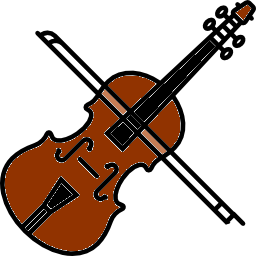
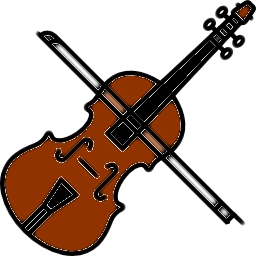
header placeholder

diff --git a/style.css b/style.css
@@ -5,5 +5,5 @@
 
 #header {
   margin-bottom: 25px;
-  box-shadow: 5px 10px hsla(0, 75%, 70%, 0.3);
+  /*opacity: 0.2;*/
 }

diff --git a/header.php b/header.php
@@ -18,17 +18,17 @@
 
     <!--<body class = "bg-secondary"> -->
     <div class="container container-fluid" >
-        <div class="card text-center bg-light" id="header">
+        <div class="card text-center bg-transparent" id="header" style = "margin-bottom:.5rem;">
         
-            <div class="card-body bg-secondary">
-            <img src = "violin_brown.png" >
-                <h4 class="card-header rounded-top bg-light" style="margin-top:.25rem;">The Violin Concerto Through the Ages!</h4>
-                <p class="card-text text-white bg-info rounded-bottom">Great violinists (and one violist) from the 1940's to the present, perform masterworks of the
+            <div class="card-body">
+            <!-- <img src = "violin_brown_shadow.png" > -->
+                <h3 class="card-header rounded-top bg-transparent text-light" style="margin-top:.25rem;">The Violin Concerto Through the Ages!</h3>
+                <p class="card-text text-white bg-transparent rounded-bottom">Great violinists (and one violist) from the 1940's to the present, perform masterworks of the
                 concerto repertoire presented as excerpts in chronological order from the 18th century through the
                 20th century and representing the Baroque, Classical, late Classical, Romantic and late Romantic
                 eras in Western music. </p>
             </div>
-            <div class="card-footer text-muted">
-
+            <!-- <div class="card-footer text-muted bg-light"> -->
+            <div>
             </div>
         </div>
